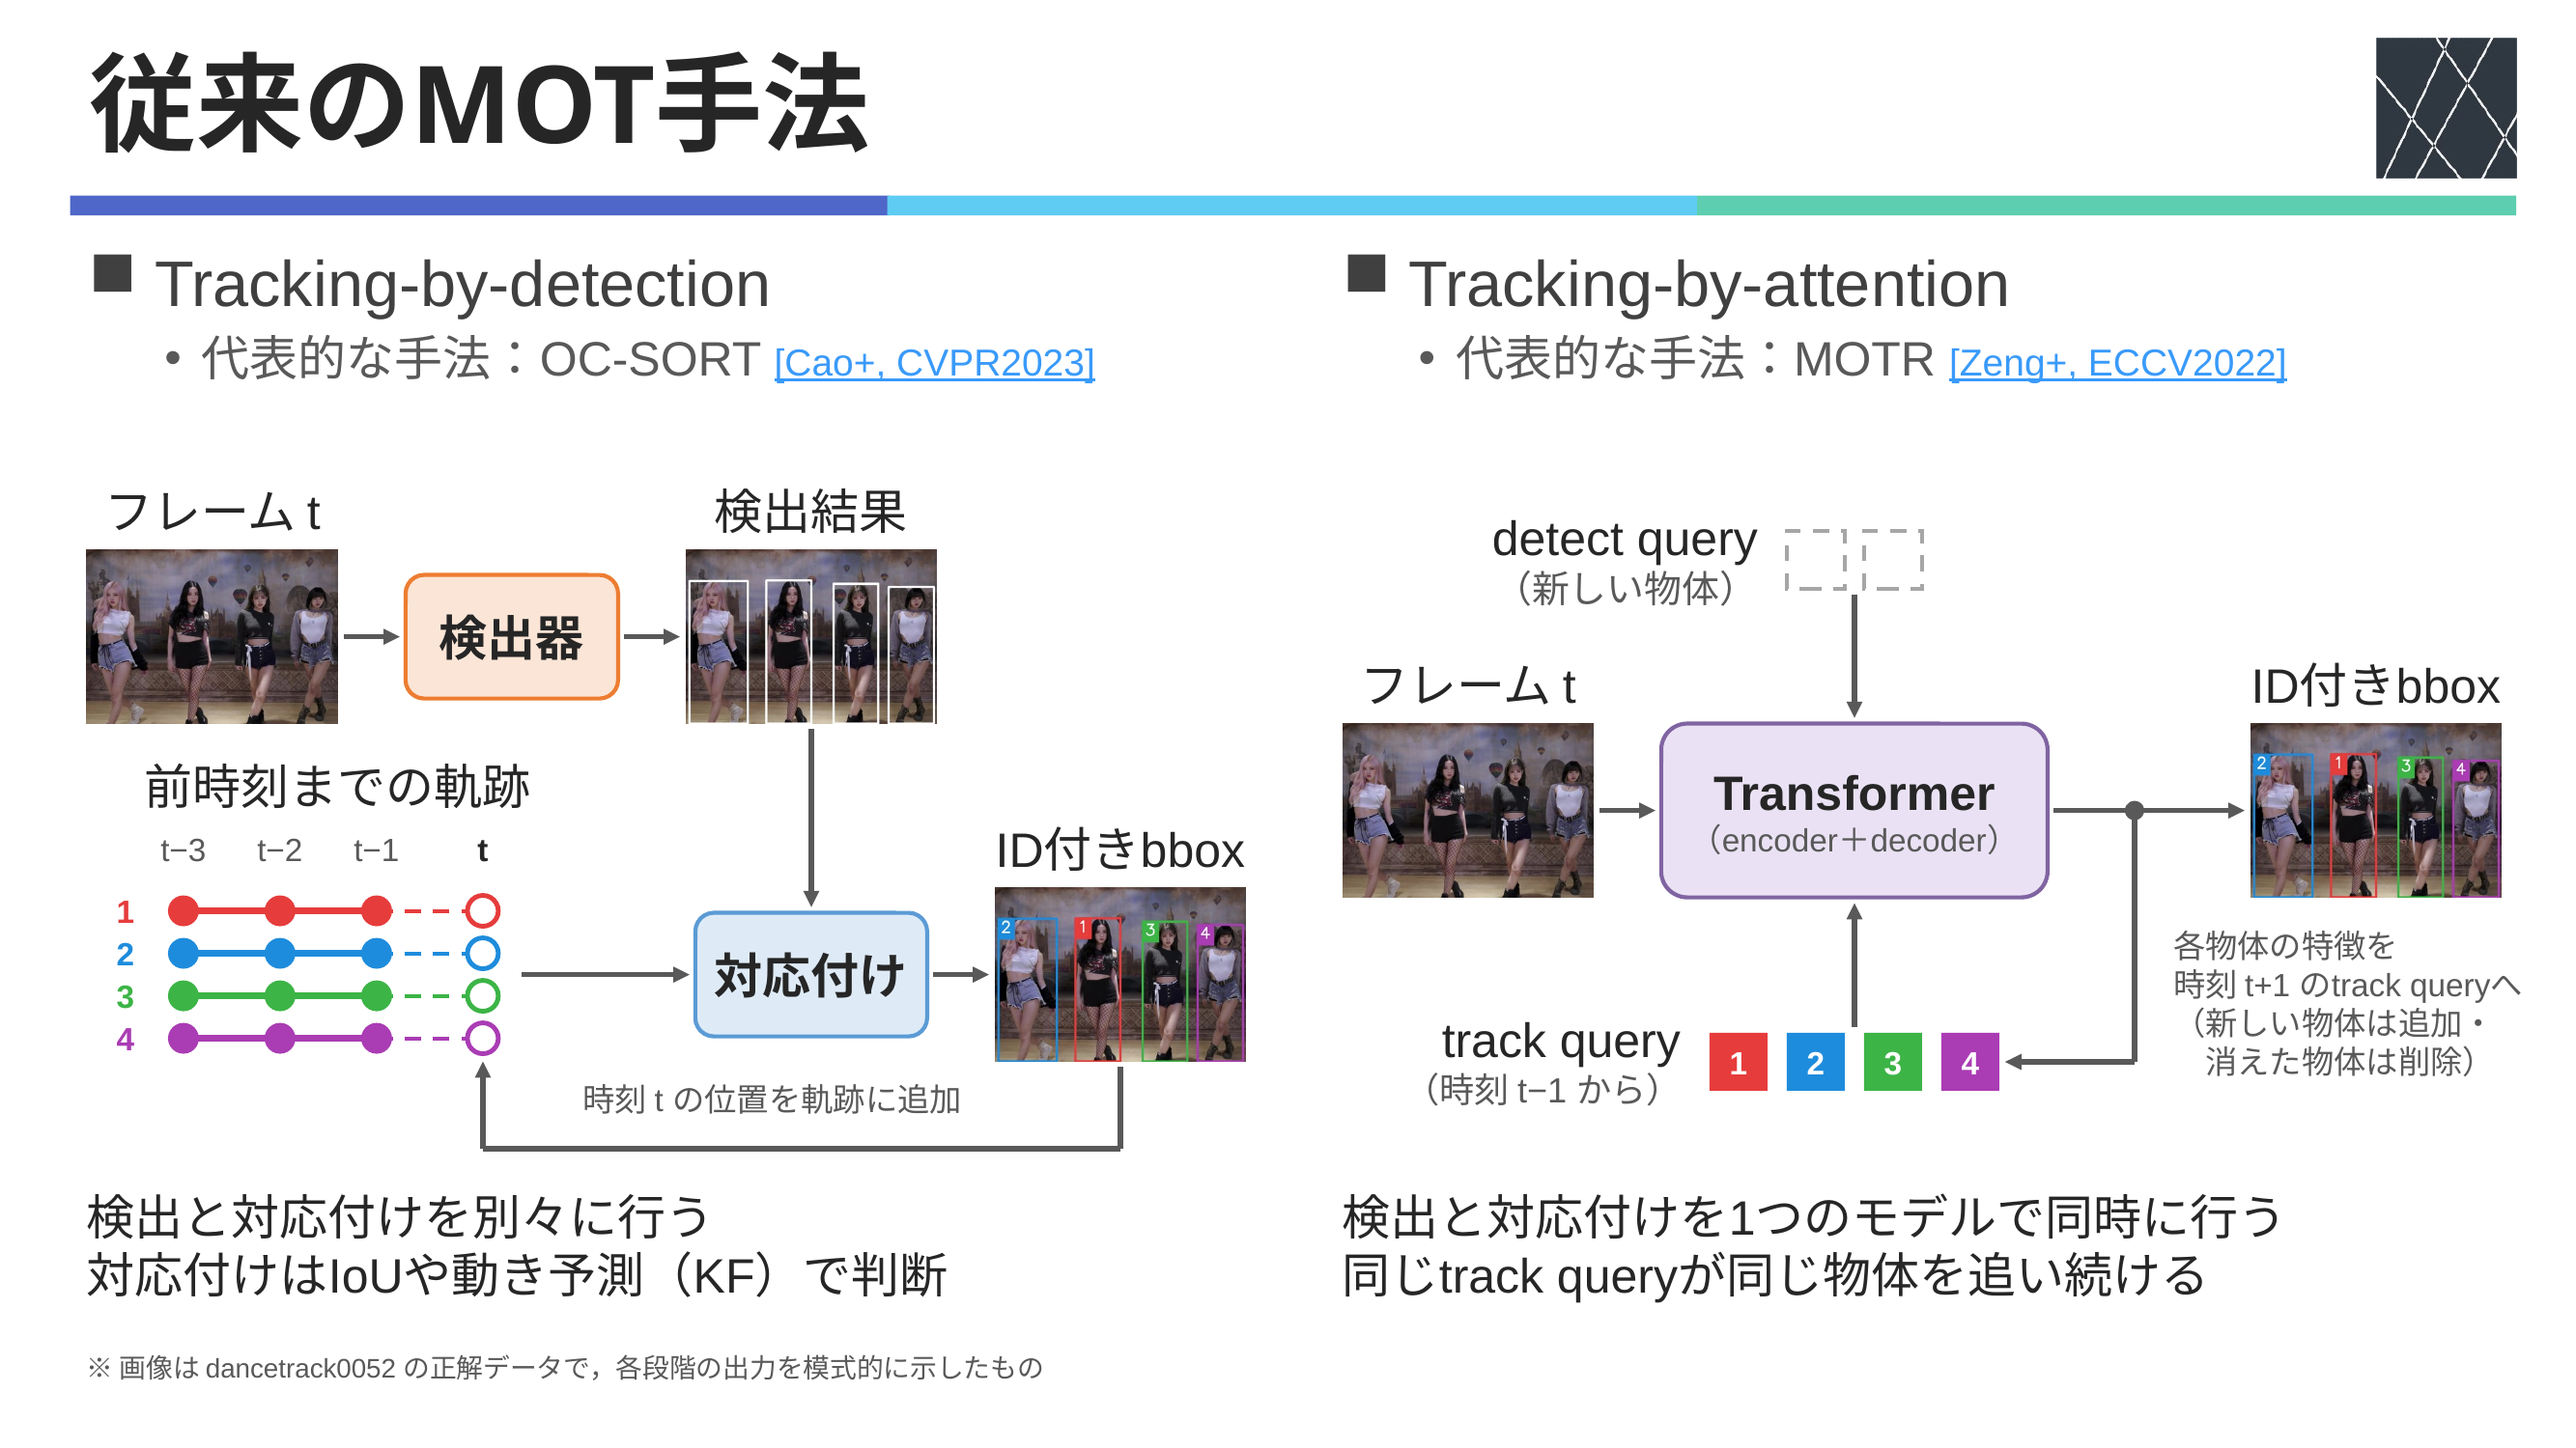
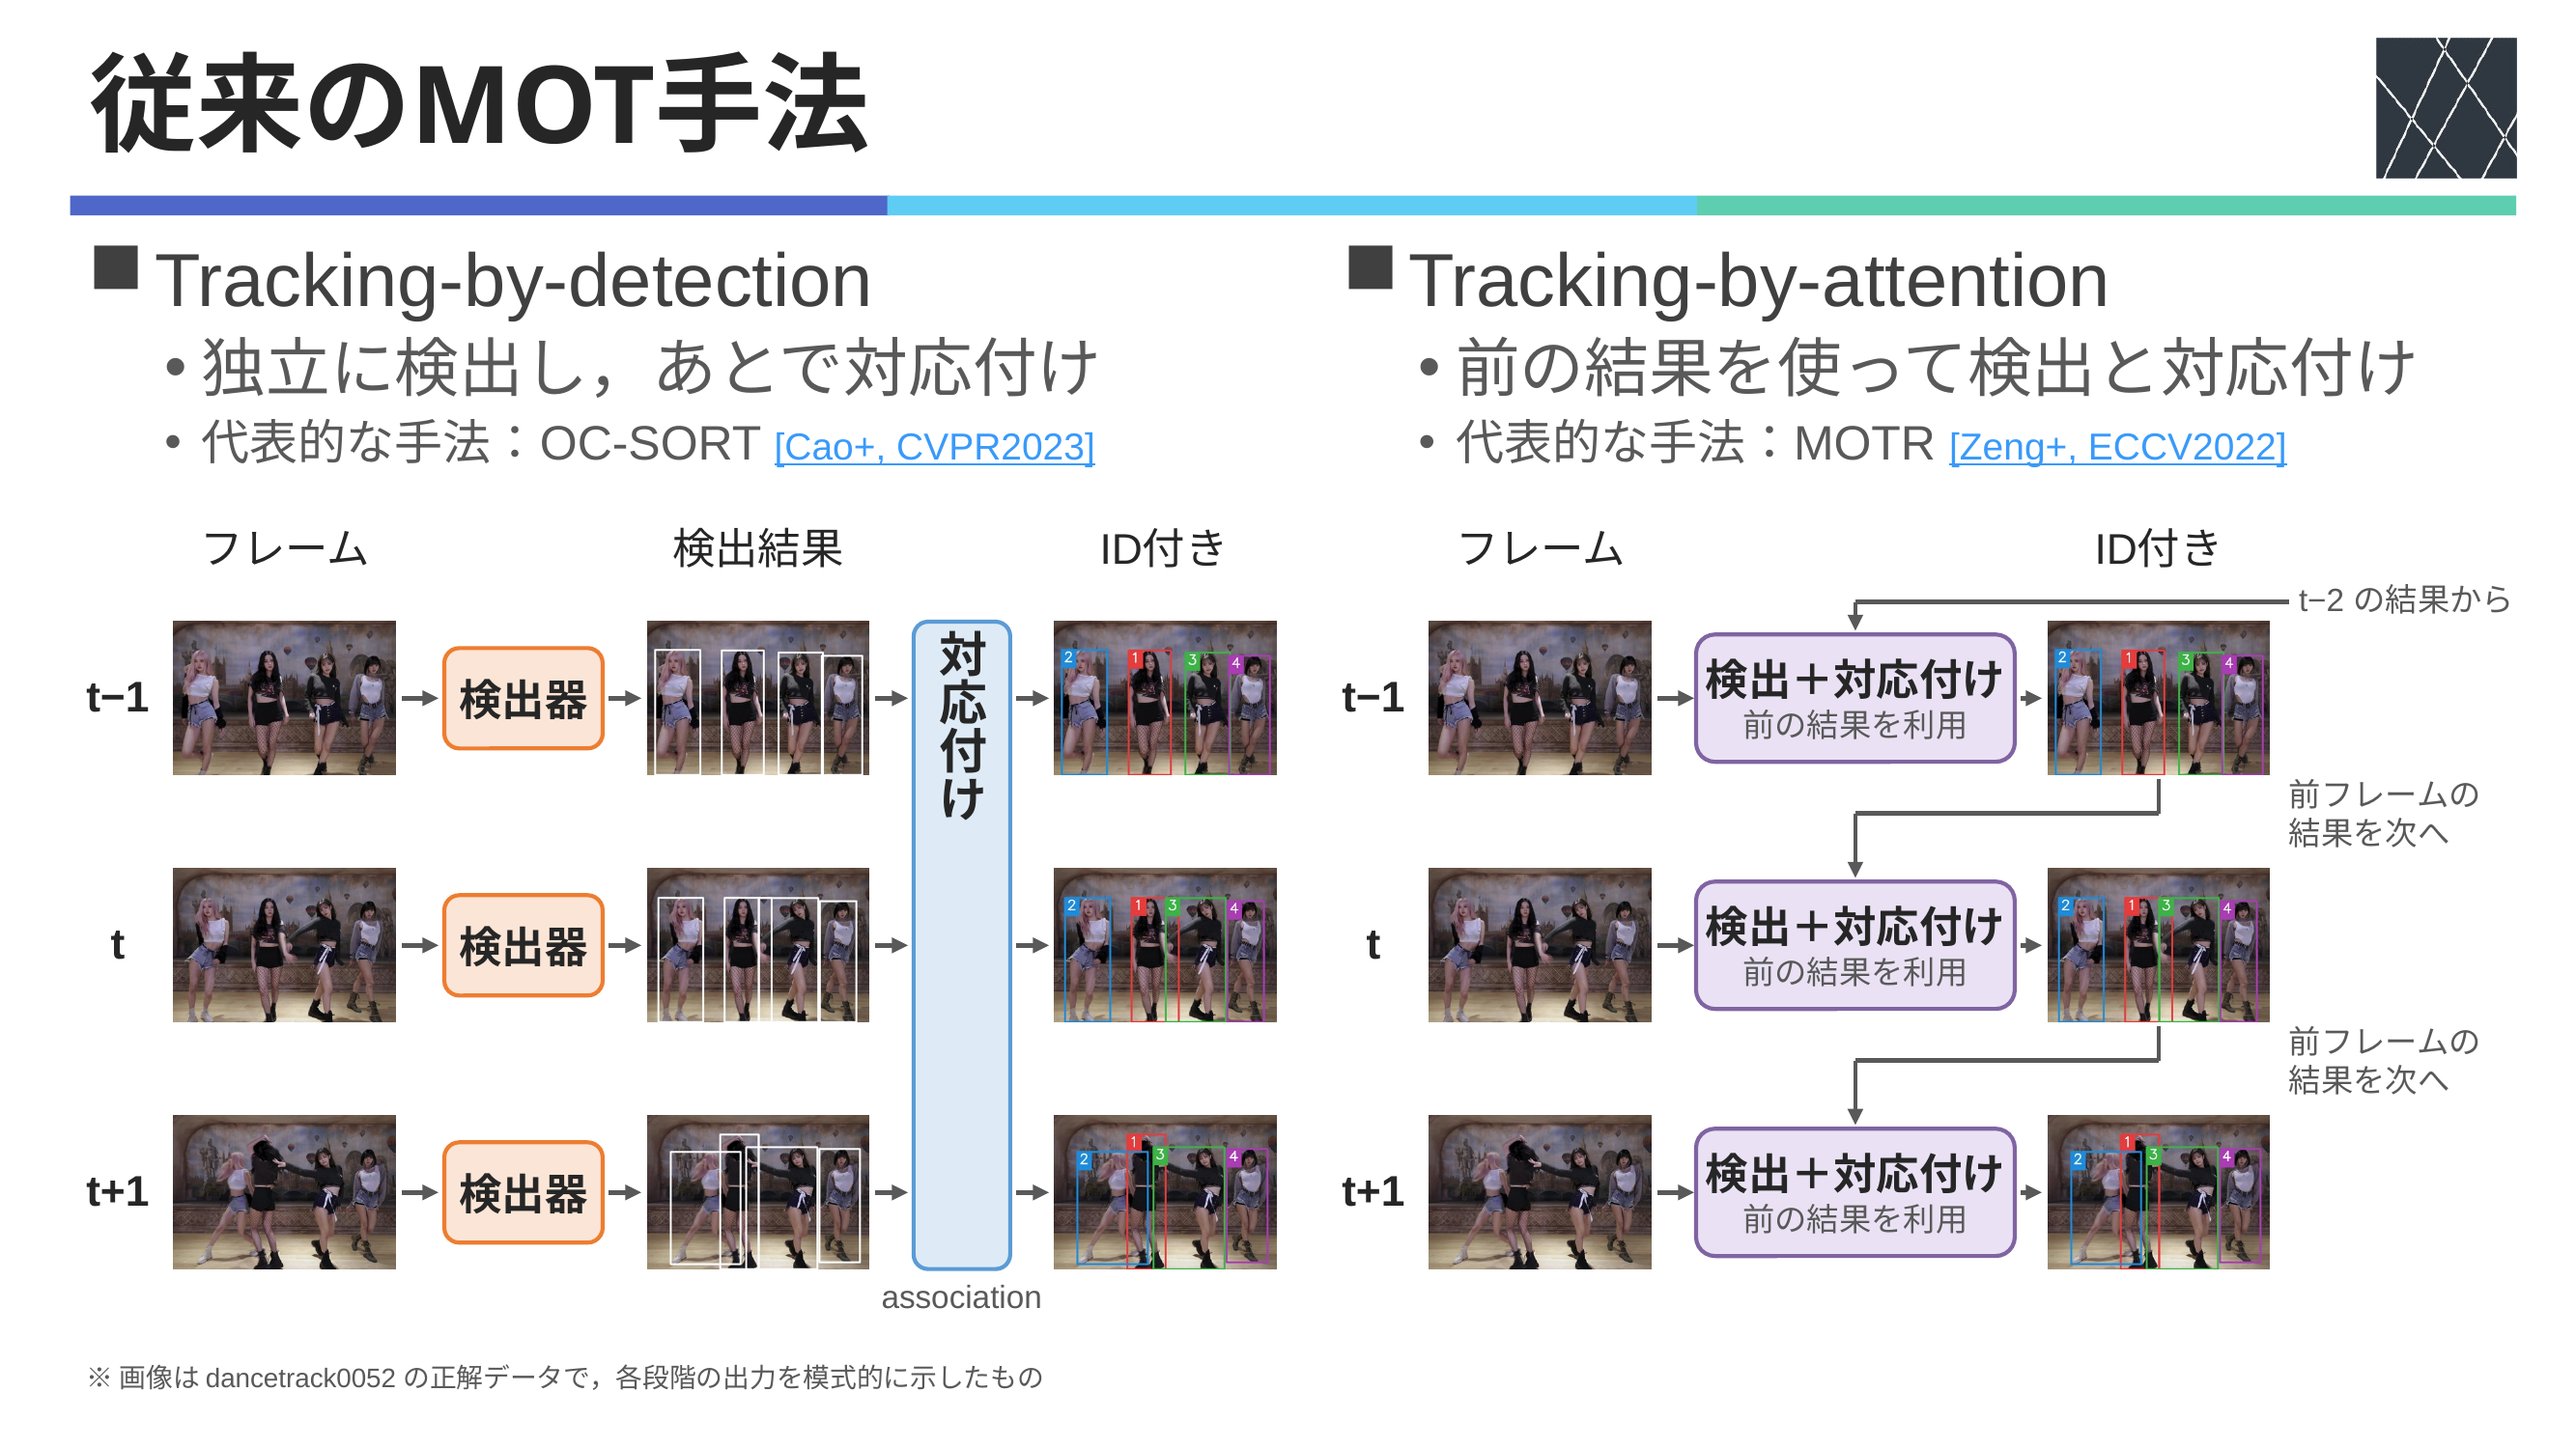
資料: 中間発表3枚目のTBD/TBA図を時系列の形に描き直す
10/14 MTGの指摘 #2 に対応。左右に並べ、時間を上から下（t−1 → t → t+1）に流す図にした。
図の素材（dancetrack0052のフレーム・検出・ID付き結果）と生成スクリプトを追加。

diff --git a/.research/lab/projects/sam2-mamba-motion-tracking/materials/figures/2026-10-15-mot-paradigm-timeline/make_thumbnails.py b/.research/lab/projects/sam2-mamba-motion-tracking/materials/figures/2026-10-15-mot-paradigm-timeline/make_thumbnails.py
@@ -1,0 +1,84 @@
+#!/usr/bin/env python3
+"""Frame images for the TBD / TBA timeline diagrams (dancetrack0052 GT, three frames).
+
+For each frame k: frame_k.png (input), det_k.png (white boxes, no ID: detector output),
+trk_k.png (ID-colored boxes: tracking output), tba_k.png (ID-colored boxes + dashed search
+region around the previous frame's box of ID 1, as in template matching). Boxes are GT and only
+illustrate what each stage outputs.
+
+usage: make_thumbnails.py FPREV F0 F1 F2   (FPREV: the frame before F0, used only for the search region of k=0)
+"""
+import csv
+import sys
+from pathlib import Path
+
+import cv2
+import numpy as np
+
+SEQ = Path("/mnt/HDD10TB-2/aburatani/dataset/DanceTrack/train2/train2/dancetrack0052")
+OUT = Path(__file__).parent
+SIZE = (725, 500)
+SEARCH_ID = 0  # GT ID 0（表示は ID 1）
+COLORS = {0: (60, 60, 230), 1: (220, 140, 30), 2: (70, 180, 60), 3: (180, 60, 170)}  # BGR, ID 1-4
+
+
+def gt(frames):
+    rows = {f: {} for f in frames}
+    with open(SEQ / "gt/gt.txt", newline="") as fh:
+        for r in csv.reader(fh):
+            f = int(r[0])
+            if f in rows:
+                rows[f][int(r[1])] = tuple(map(float, r[2:6]))
+    return rows
+
+
+def dashed_rect(img, p1, p2, color, th, dash=40, gap=24):
+    (x1, y1), (x2, y2) = p1, p2
+    for a, b in [((x1, y1), (x2, y1)), ((x2, y1), (x2, y2)), ((x2, y2), (x1, y2)), ((x1, y2), (x1, y1))]:
+        a, b = np.array(a, float), np.array(b, float)
+        n = np.linalg.norm(b - a); d = (b - a) / n; s = 0.0
+        while s < n:
+            q1, q2 = a + d * s, a + d * min(s + dash, n)
+            cv2.line(img, tuple(map(int, q1)), tuple(map(int, q2)), color, th, cv2.LINE_AA)
+            s += dash + gap
+
+
+def label(img, p1, text, color):
+    font = cv2.FONT_HERSHEY_SIMPLEX
+    (tw, th), base = cv2.getTextSize(text, font, 3.2, 8)
+    cv2.rectangle(img, p1, (p1[0] + tw + 30, p1[1] + th + base + 24), color, -1)
+    cv2.putText(img, text, (p1[0] + 15, p1[1] + th + 12), font, 3.2, (255, 255, 255), 8, cv2.LINE_AA)
+
+
+def main():
+    prev = int(sys.argv[1])
+    frames = [int(a) for a in sys.argv[2:5]]
+    boxes = gt([prev] + frames)
+    allb = [b for f in frames for b in boxes[f].values()]  # 切り出し範囲は表示する3フレームで決める
+    x0 = min(b[0] for b in allb); x1 = max(b[0] + b[2] for b in allb)
+    cx = (x0 + x1) / 2; cw = 1566  # 1080 × 1.45
+    X0 = int(np.clip(cx - cw / 2, 0, 1920 - cw))
+    crop = lambda im: cv2.resize(im[0:1080, X0:X0 + cw], SIZE, interpolation=cv2.INTER_AREA)
+    for k, f in enumerate(frames):
+        base = cv2.imread(str(SEQ / "img1" / f"{f:08d}.jpg"))
+        det, trk, tba = base.copy(), base.copy(), base.copy()
+        for tid, (x, y, w, h) in boxes[f].items():
+            p1, p2 = (round(x), max(4, round(y))), (round(x + w), min(1075, round(y + h)))
+            cv2.rectangle(det, p1, p2, (255, 255, 255), 12, cv2.LINE_AA)
+            for im in (trk, tba):
+                cv2.rectangle(im, p1, p2, COLORS[tid], 12, cv2.LINE_AA)
+                label(im, p1, str(tid + 1), COLORS[tid])
+        if True:  # 前フレームの位置の周辺（探索範囲）。見やすさのため1人（ID 1）だけ描く
+            for tid, (x, y, w, h) in boxes[frames[k - 1] if k else prev].items():
+                if tid != SEARCH_ID:
+                    continue
+                mx, my = 0.35 * w, 0.06 * h
+                dashed_rect(tba, (round(x - mx), max(6, round(y - my))), (round(x + w + mx), min(1073, round(y + h + my))),
+                            (255, 255, 255), 10)
+        for name, im in (("frame", base), ("det", det), ("trk", trk), ("tba", tba)):
+            cv2.imwrite(str(OUT / f"{name}_{k}.png"), crop(im))
+    print("frames", frames, "crop x", X0)
+
+
+if __name__ == "__main__":
+    main()

diff --git a/.research/lab/projects/sam2-mamba-motion-tracking/materials/figures/2026-10-15-mot-paradigm-timeline/manifest.md b/.research/lab/projects/sam2-mamba-motion-tracking/materials/figures/2026-10-15-mot-paradigm-timeline/manifest.md
@@ -1,0 +1,17 @@
+# TBD / TBA の時系列図（3枚目「従来のMOT手法」, 2026-10-15）
+
+10/14 MTGの指摘（TBD: フレームごとに独立に検出して対応付ける（association）ことが分かる図、TBA: 前フレームの情報を使う逐次処理と時系列の流れ、Transformer・queryの説明は不要）に合わせて描き直した。左右に並べ、時間は上から下（t−1 → t → t+1）に流す。
+
+- TBD（左）: 各時刻で「フレーム → 検出器 → 検出結果（IDなし、白枠）」を独立に行い、3時刻をまたぐ縦長の「対応付け（association）」でまとめて「ID付き」にする。検出までの段にはフレーム間の矢印を入れない。
+- TBA（右）: どの時刻も同じ「検出＋対応付け（前の結果を利用）」の箱にした（2026-10-15 修正。最初の時刻だけ「検出」にすると、t−1 で検出し t 以降は追跡しているように見えるため）。1つ前の時刻の「ID付き」の結果を次の時刻の箱へ矢印で渡し、t−1 の箱にも「t−2 の結果から」の矢印を入れた。テンプレートマッチングでも成り立つ一般的な構造として描いた。探索範囲（白の点線）とその説明は、ユーザーの判断で外した（ID付きの画像は TBD と同じ `trk_k.png`）。
+- 本文: 「独立に検出し，あとで対応付け」「前の結果を使って検出と対応付け」（24pt）、手法名28pt、代表的な手法（OC-SORT / MOTR）18pt。
+
+| ファイル | 中身 |
+|---|---|
+| `frame_k.png` | dancetrack0052 の frame 7 / 15 / 23（k = 0, 1, 2）。k = 0 の探索範囲には frame 1 の位置を使う |
+| `det_k.png` | GTの枠を白（IDなし）で描いたもの。検出結果の例 |
+| `trk_k.png` | GTの枠とIDを色付きで描いたもの。追跡結果の例 |
+| `tba_k.png` | `trk_k` に、前フレームの ID 1 の枠を広げた白の点線（探索範囲）を加えたもの（現在はスライドで未使用） |
+
+- 画像は正解データを使った模式図で、特定の手法の出力ではない（スライドに注記あり）。
+- `make_thumbnails.py 1 7 15 23` で作り直せる。

diff --git a/.research/lab/projects/sam2-mamba-motion-tracking/materials/2026-10-12-midterm-slide-restructure.md b/.research/lab/projects/sam2-mamba-motion-tracking/materials/2026-10-12-midterm-slide-restructure.md
@@ -107,6 +107,10 @@ tags: [presentation, midterm, restructure]
 - 9枚目にあった帯の図は10枚目「動き予測の2つの構成」の(b)と同じなので外した。Mambaブロックの図は補足スライド「補足：動き予測器のMambaブロック」（「Mambaブロック」の直後）に移した。
 - 9枚目の本文（数式入り）は普通の文字に置き換え、幅を広げて28pt / 24ptにした。
 
+## 2026-10-15 3枚目（10/14 MTGの指摘 #2）
+
+- TBD / TBA の図を、左右に並べたまま時間を上から下へ流す形（t−1, t, t+1）に描き直した。TBDは「各時刻で独立に検出 → まとめて対応付け（association）」、TBAは「前フレームの結果を次の時刻へ渡し、前の位置の周辺を探す」。Transformer・queryの記述をやめた。[図の説明](figures/2026-10-15-mot-paradigm-timeline/manifest.md)
+
 ## 自作図のバックアップ
 
 自作の図（3・4・6・7枚目）は、[抜き出し版のpptx](figures/2026-10-13-midterm-diagrams/manifest.md)にも保存した。
